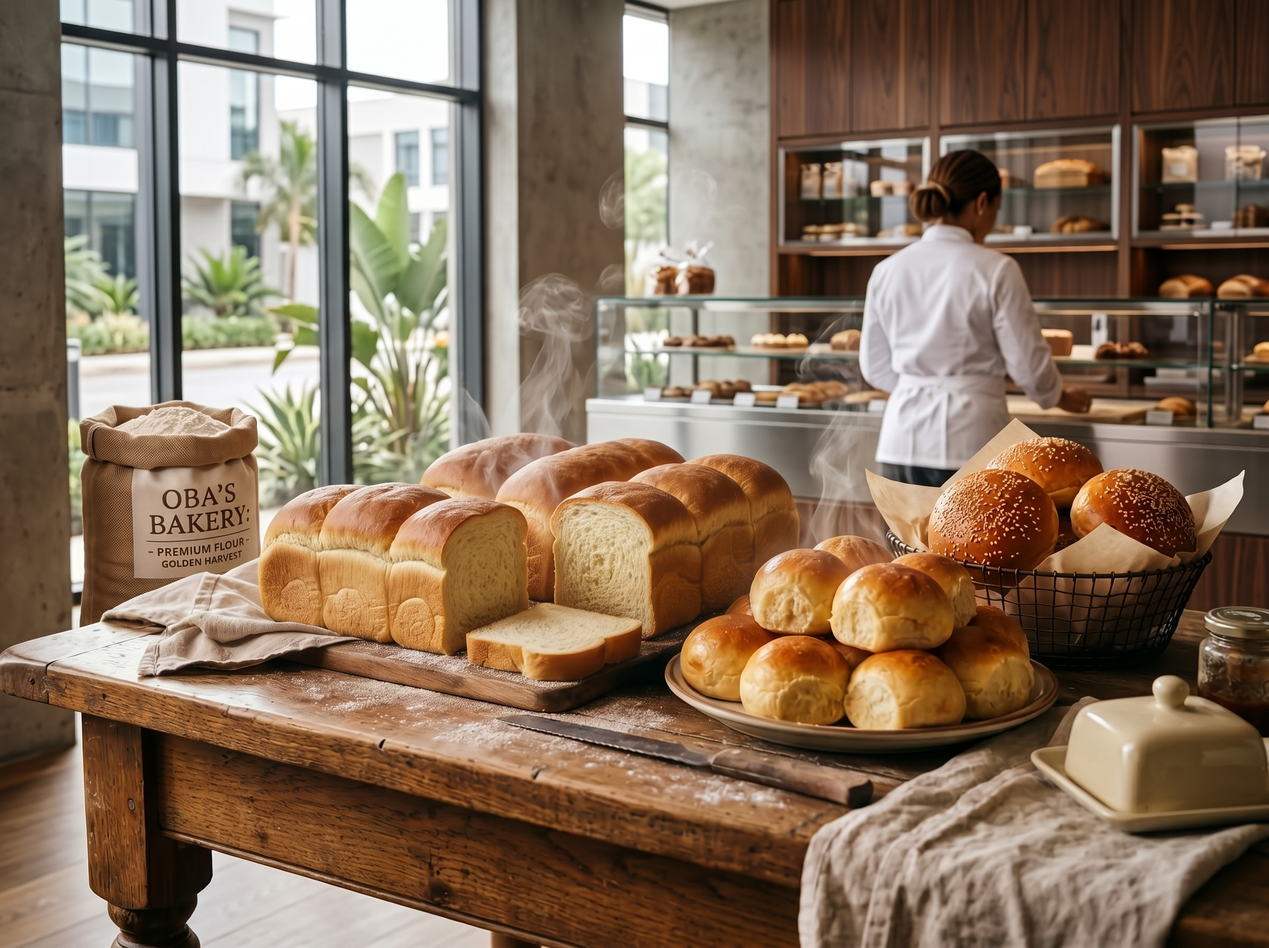
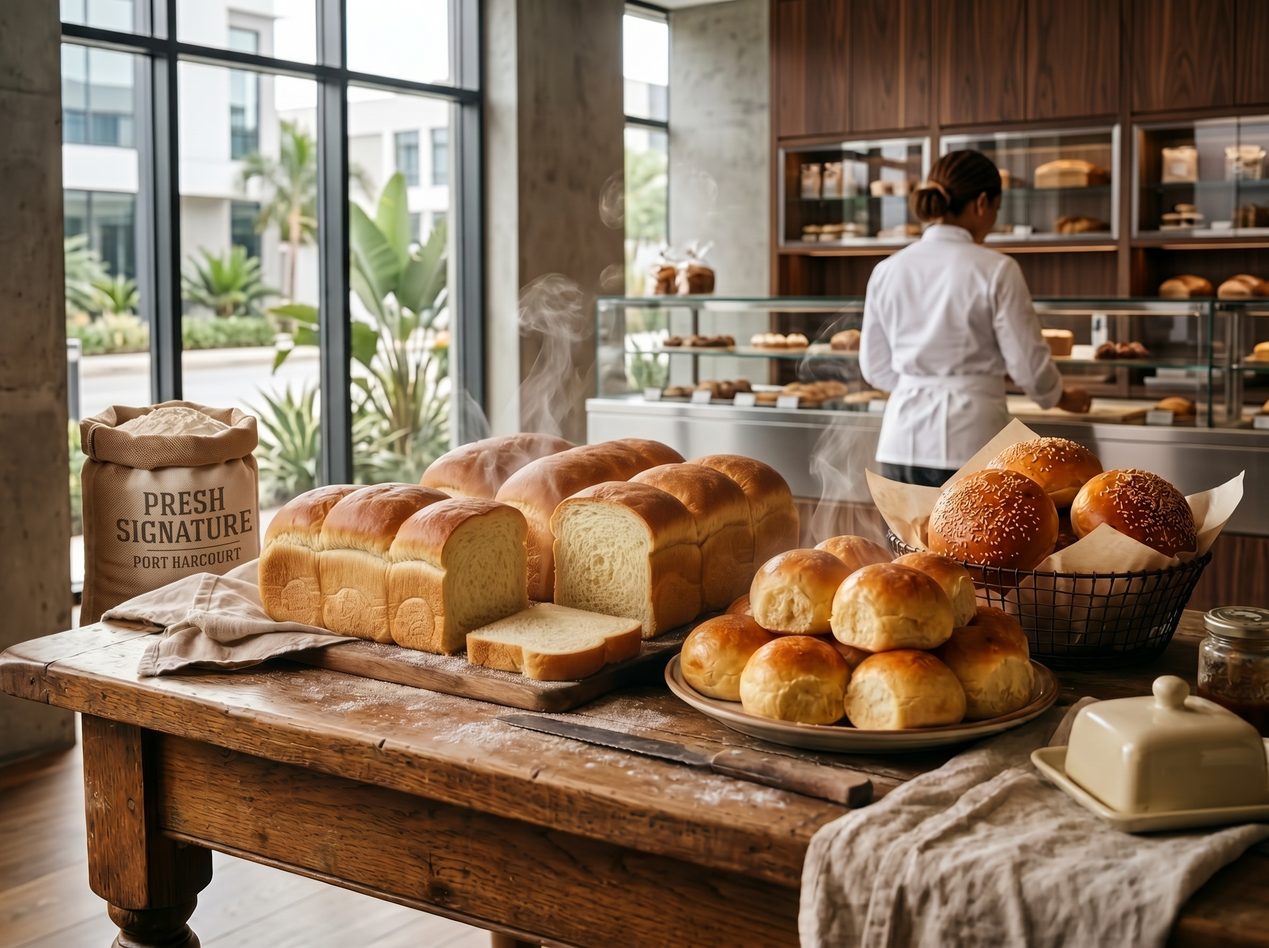
Updated Socials

diff --git a/src/components/Footer.tsx b/src/components/Footer.tsx
@@ -3,9 +3,27 @@ import { MessageCircle, Mail, MapPin, ArrowUpRight } from 'lucide-react';
 import { Page } from '../types';
 import { BRAND } from '../data';
 
+
+
 interface FooterProps {
   onNavigate: (page: Page) => void;
 }
+
+const FacebookIcon = () => (
+  <svg width="16" height="16" viewBox="0 0 24 24" fill="currentColor"><path d="M22 12.06C22 6.51 17.52 2 12 2S2 6.51 2 12.06c0 5.02 3.66 9.18 8.44 9.94v-7.03H7.9v-2.91h2.54V9.85c0-2.51 1.49-3.9 3.77-3.9 1.09 0 2.24.2 2.24.2v2.46h-1.26c-1.24 0-1.63.78-1.63 1.57v1.88h2.78l-.45 2.91h-2.33V22c4.78-.76 8.44-4.92 8.44-9.94z" /></svg>
+);
+
+const InstagramIcon = () => (
+  <svg width="16" height="16" viewBox="0 0 24 24" fill="none" stroke="currentColor" strokeWidth="2"><rect x="2" y="2" width="20" height="20" rx="5" /><circle cx="12" cy="12" r="4" /><circle cx="17.5" cy="6.5" r="1" fill="currentColor" stroke="none" /></svg>
+);
+
+const YoutubeIcon = () => (
+  <svg width="16" height="16" viewBox="0 0 24 24" fill="currentColor"><path d="M23.5 6.19a3.02 3.02 0 0 0-2.12-2.14C19.5 3.5 12 3.5 12 3.5s-7.5 0-9.38.55A3.02 3.02 0 0 0 .5 6.19 31.6 31.6 0 0 0 0 12a31.6 31.6 0 0 0 .5 5.81 3.02 3.02 0 0 0 2.12 2.14C4.5 20.5 12 20.5 12 20.5s7.5 0 9.38-.55a3.02 3.02 0 0 0 2.12-2.14A31.6 31.6 0 0 0 24 12a31.6 31.6 0 0 0-.5-5.81zM9.6 15.6V8.4l6.3 3.6-6.3 3.6z" /></svg>
+);
+
+const TiktokIcon = () => (
+  <svg width="16" height="16" viewBox="0 0 24 24" fill="currentColor"><path d="M16.6 5.82c-.9-.98-1.4-2.26-1.4-3.57h-3.2v13.9c0 1.56-1.27 2.83-2.83 2.83a2.83 2.83 0 1 1 0-5.66c.29 0 .57.04.83.13V9.98a6 6 0 1 0 5.2 5.95V9.38a8.15 8.15 0 0 0 4.4 1.29V7.47a4.85 4.85 0 0 1-3-1.65z" /></svg>
+);
 
 export const Footer: React.FC<FooterProps> = ({ onNavigate }) => {
   const currentYear = new Date().getFullYear();
@@ -34,6 +52,20 @@ export const Footer: React.FC<FooterProps> = ({ onNavigate }) => {
             <p className="text-sm text-[#6E5848] leading-relaxed max-w-sm">
               Dedicated to creating delicious meals, quality baked goods, custom cakes, and unforgettable culinary celebrations.
             </p>
+            <div className="flex items-center gap-3 pt-2">
+              <a href="https://www.facebook.com/share/1FiB4BARzq/?mibextid=wwXIfr" target="_blank" rel="noopener noreferrer" aria-label="Facebook" className="w-9 h-9 rounded-full bg-[#F6EFE2] border border-[#E8DECE] flex items-center justify-center text-[#5C1A2B] hover:bg-[#5C1A2B] hover:text-white transition-colors">
+                <FacebookIcon />
+              </a>
+              <a href="https://www.instagram.com/preshsignature1?stkn=cnlweG4yaXhlYjgy" target="_blank" rel="noopener noreferrer" aria-label="Instagram" className="w-9 h-9 rounded-full bg-[#F6EFE2] border border-[#E8DECE] flex items-center justify-center text-[#5C1A2B] hover:bg-[#5C1A2B] hover:text-white transition-colors">
+                <InstagramIcon />
+              </a>
+              <a href="https://youtube.com/@preshsignature1?si=VcbZlGcOgJZgEcVW" target="_blank" rel="noopener noreferrer" aria-label="YouTube" className="w-9 h-9 rounded-full bg-[#F6EFE2] border border-[#E8DECE] flex items-center justify-center text-[#5C1A2B] hover:bg-[#5C1A2B] hover:text-white transition-colors">
+                <YoutubeIcon />
+              </a>
+              <a href="https://www.tiktok.com/@preshsignature3" target="_blank" rel="noopener noreferrer" aria-label="TikTok" className="w-9 h-9 rounded-full bg-[#F6EFE2] border border-[#E8DECE] flex items-center justify-center text-[#5C1A2B] hover:bg-[#5C1A2B] hover:text-white transition-colors">
+                <TiktokIcon />
+              </a>
+            </div>
           </div>
 
           {/* Navigation Links */}

diff --git a/src/pages/ContactPage.tsx b/src/pages/ContactPage.tsx
@@ -25,7 +25,7 @@ export const ContactPage: React.FC<ContactPageProps> = ({ onNavigate, initialCat
   };
 
   const constructWhatsAppUrl = () => {
-    const text = `Hello Presh Signature!%0A%0A*Name:* ${encodeURIComponent(name || 'Customer')}%0A*Interest:* ${encodeURIComponent(selectedCategory)}%0A*Event Date:* ${encodeURIComponent(eventDate || 'Not specified')}%0A*Message:* ${encodeURIComponent(message || 'I would like to inquire about your catering and baking services.')}`;
+    const text = `Hello Presh Signature!%0A%0A*Name:* ${encodeURIComponent(name || 'Customer')}%0A*Phone:* ${encodeURIComponent(phone || 'Not provided')}%0A*Interest:* ${encodeURIComponent(selectedCategory)}%0A*Event Date:* ${encodeURIComponent(eventDate || 'Not specified')}%0A*Message:* ${encodeURIComponent(message || 'I would like to inquire about your catering and baking services.')}`;
     return `https://wa.me/2348123122777?text=${text}`;
   };
 
@@ -51,7 +51,7 @@ export const ContactPage: React.FC<ContactPageProps> = ({ onNavigate, initialCat
           <p className="text-sm sm:text-base text-[#6E5848] font-normal">
             We look forward to creating memorable flavors and celebrations for you.
           </p>
-           </motion.section>
+        </motion.section>
 
         {/* Contact Cards Strip with Staggered Scroll Entrance & Hover Lift */}
         <section id="contact-methods-strip" className="grid grid-cols-1 md:grid-cols-3 gap-6">
@@ -154,7 +154,7 @@ export const ContactPage: React.FC<ContactPageProps> = ({ onNavigate, initialCat
                 Service Area
               </h2>
               <p className="text-sm text-[#6E5848] leading-relaxed">
-                Serving Lagos and catering special celebrations across Nigeria.
+                Proudly serving {BRAND.contact.location} for all your celebrations.
               </p>
               <div className="pt-1 flex items-center gap-2 text-xs text-[#5C1A2B] font-medium">
                 <Clock size={14} className="text-[#C9972B]" />
@@ -329,8 +329,10 @@ export const ContactPage: React.FC<ContactPageProps> = ({ onNavigate, initialCat
                 </div>
 
                 {/* Action Buttons */}
-                <div className="pt-2 flex flex-col sm:flex-row items-center gap-3">
-                  <motion.button
+                <div className="flex justify-center pt-2">
+                  {
+
+                  /* <motion.button
                     id="submit-inquiry-btn"
                     whileHover={{ scale: 1.02 }}
                     whileTap={{ scale: 0.98 }}
@@ -339,7 +341,7 @@ export const ContactPage: React.FC<ContactPageProps> = ({ onNavigate, initialCat
                   >
                     <Send size={14} />
                     <span>Submit Inquiry</span>
-                  </motion.button>
+                  </motion.button> */}
 
                   <motion.a
                     id="direct-whatsapp-compose-btn"
@@ -351,7 +353,7 @@ export const ContactPage: React.FC<ContactPageProps> = ({ onNavigate, initialCat
                     className="w-full sm:w-auto inline-flex items-center justify-center gap-2 py-3.5 px-6 rounded-full bg-[#25D366] text-white text-xs uppercase tracking-widest font-semibold hover:bg-[#1EBE5D] transition-colors shadow-sm"
                   >
                     <MessageCircle size={15} />
-                    <span>Chat Directly on WhatsApp</span>
+                    <span>Send Inquiry via WhatsApp</span>
                   </motion.a>
                 </div>
               </form>
